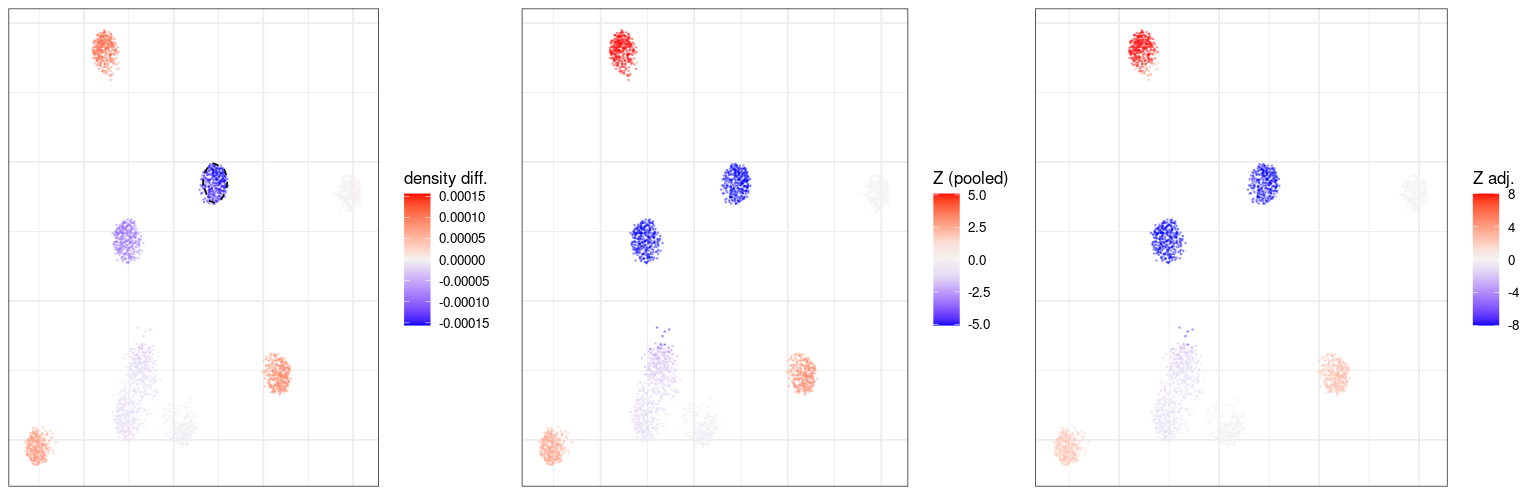
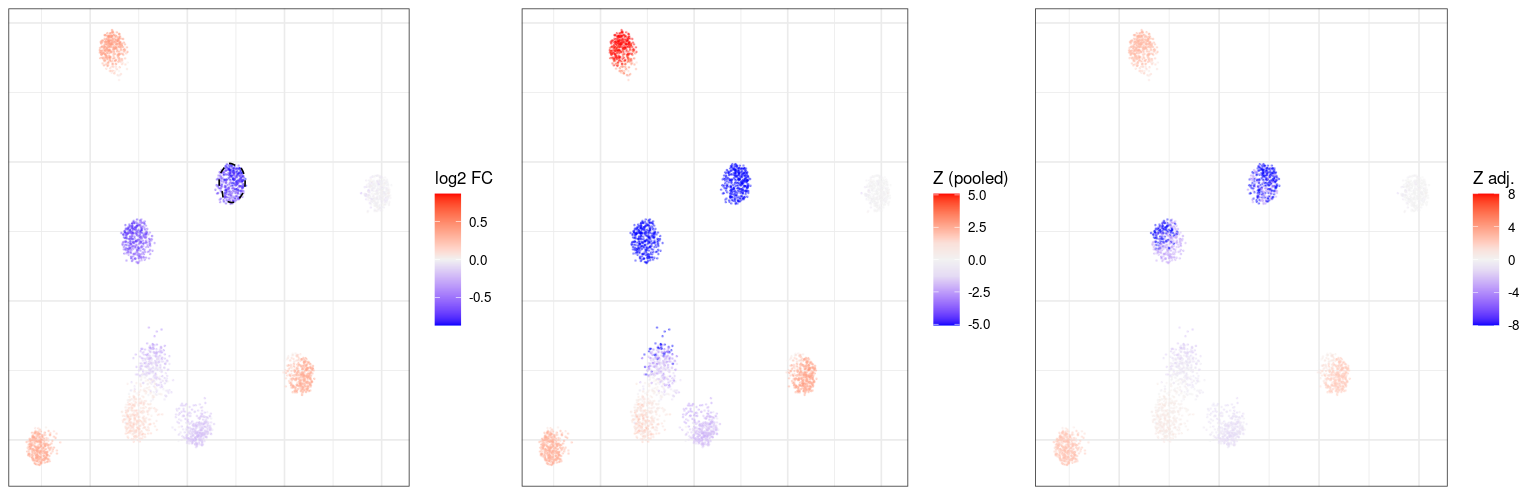
Cluster-free shifts default to the kNN unit (size rule) with the averaged statistic; walkthrough re-rendered and its cluster-free text updated; slow test adjusted for the averaged statistic on the dense simulated graph

diff --git a/vignettes/walkthrough_short.md b/vignettes/walkthrough_short.md
@@ -1,7 +1,7 @@
 Getting started with Cacoa
 ================
 Cacoa developers
-2026-10-12
+2026-10-13
 
 - <a href="#load-data" id="toc-load-data">Load data</a>
 - <a href="#check-the-design" id="toc-check-the-design">Check the
@@ -330,16 +330,25 @@ cao$plotCellLoadings(show.pvals = FALSE)
 
 ## Cluster-free analyses
 
-Cell density is compared between the arms in every neighbourhood of the
-cell graph with the same model. The per-cell statistics are strongly
-dependent and permutation p-values are floored at 1 / (permutations +
-1), so the maps are adjusted by a pooled permutation false-discovery
-rate (`adjust.method = "perm-fdr"`): the number of cells beyond a
-threshold under the permutations, pooled over all cells, against the
-observed number. Benjamini-Hochberg on per-cell p-values (`"bh"`) and
-the familywise max-statistic adjustment (`"max-t"`) remain available.
-The cluster-free expression shifts test the contrast in every cell’s
-neighbourhood with the same adjustment.
+Cell density is compared between the arms in every cell’s neighbourhood
+with the same model. The unit is a kNN neighbourhood of the cell graph:
+the cell, its graph neighbours and, up to a minimum size, their
+neighbours, sized by default to the larger of 100 cells and 10 cells per
+sample (`k`). Each sample’s share of the neighbourhood’s cells is tested
+on the log scale, and the statistic is then averaged over each cell and
+its graph neighbours under every permutation alike
+(`post = "averaged"`), an exact test of a slightly larger unit that
+borrows strength from the neighbours without inflating the error. The
+per-cell statistics are strongly dependent and permutation p-values are
+floored at 1 / (permutations + 1), so the maps are adjusted by a pooled
+permutation false-discovery rate (`adjust.method = "perm-fdr"`): the
+number of cells beyond a threshold under the permutations, pooled over
+all cells, against the observed number. The heat-kernel density
+(`smoothing = "heat"`, width in cells with `target.size`),
+Benjamini-Hochberg on per-cell p-values (`"bh"`) and the familywise
+max-statistic adjustment (`"max-t"`) remain available. The cluster-free
+expression shifts test the contrast in the same kNN neighbourhoods with
+the same post-processing and adjustment.
 
 ``` r
 cao$estimateCellDensity(method = "graph")
@@ -350,10 +359,10 @@ cowplot::plot_grid(cao$plotDiffCellDensity(what = "effect", contours = "L2/3"), 
 
 ![](walkthrough_short_files/figure-gfm/density-1.png)<!-- -->
 
-Left to right: the effect (the density difference per cell), the
-unadjusted z-scores (the signed tail z of the per-cell p-values of the
-pooled permutation null, calibrated and not floored at 1 /
-(permutations + 1)) and the adjusted z-scores (the tail z of the FDR
+Left to right: the effect (the log2 fold change of the density per
+cell), the unadjusted z-scores (the signed tail z of the per-cell
+p-values of the pooled permutation null, calibrated and not floored at 1
+/ (permutations + 1)) and the adjusted z-scores (the tail z of the FDR
 q-values). The colour range of a z map is the 99.5 % quantile of the
 absolute z-scores, so a few extreme cells do not wash out the map. The
 density map agrees with the loadings: `L2/3` and `L5/6-CC` are depleted

diff --git a/misc/issues.md b/misc/issues.md
@@ -298,6 +298,15 @@ permutation set depends on the metadata row order for a fixed seed.
   on the kernel and on SCC at k >= 200. TO DO in the package: a kNN count unit with a target size (100-200) for the
   density map; the averaged statistic as default post-processing, inheritance as an option; the effective-size
   diagnostic for the kernel; no observation weights.
+- (2026-10-13, done) The above is implemented: `estimateCellDensity(smoothing = "knn", k, target.size)` (kNN count unit
+  by default, `k` by `defaultNeighbourhoodSize()`; `k` is a minimum size, the 1-hop neighbourhood is never cut to the
+  strongest edges because those are own-arm edges when expression differs between arms), `estimateDiffCellDensity(post
+  = "averaged" | "inherit" | "none", transform = "auto")`, `estimateClusterFreeExpressionShifts(k, post)` with the same
+  defaults. Benchmarks behind the defaults: diffuse/gradient changes (kNN >= kernel everywhere, kernel finds nothing on
+  the PF bumps), planted expression shifts (kNN 200-400 > 100 > 1-hop; averaged calibrated, inheritance liberal on PF),
+  sample sweep (large types recovered at 4 samples per arm on MS/PF with the averaged statistic; rule k >= fixed 200).
+  Caveat: on a very dense graph (degree in the hundreds) the unit is the whole cluster and the averaged shift statistic
+  gives near per-type verdicts; neighbourhoods mixing types whose abundance changes show composition-driven shifts.
 - (2026-10-12) The unadjusted z-scores of both maps are now the signed tail z of the pooled p (`pooled` slot of the
   density results, `z.pooled` of the shifts; the permutation-standardized shift statistic is `z.std`); the adjusted
   z of q-values near 0 run to 37, so the default colour range of a z map is the 99.5 % quantile capped at 8.
